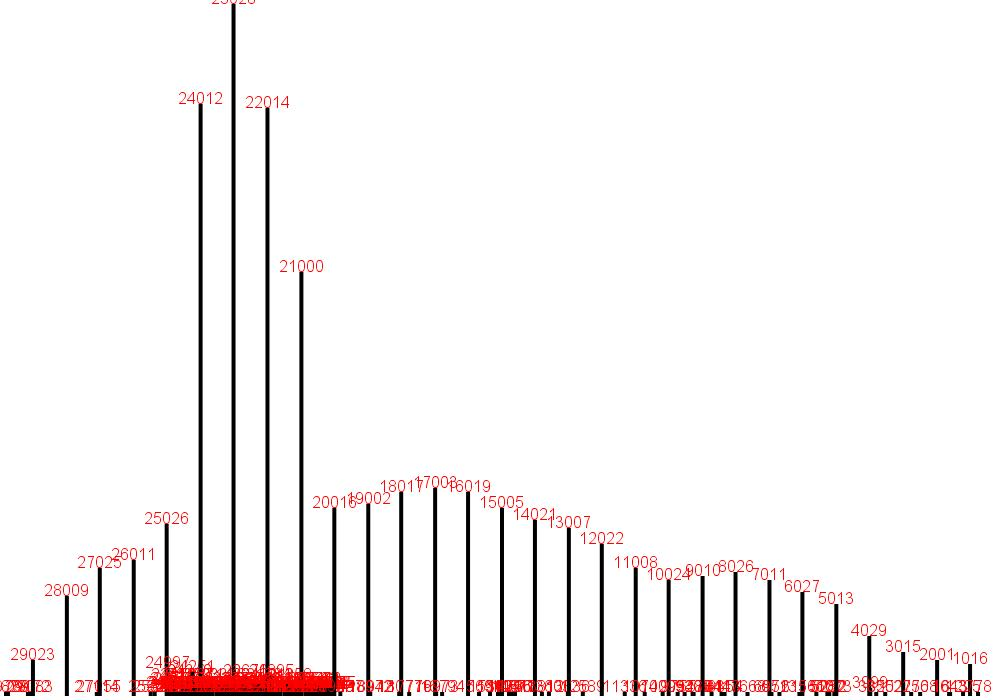
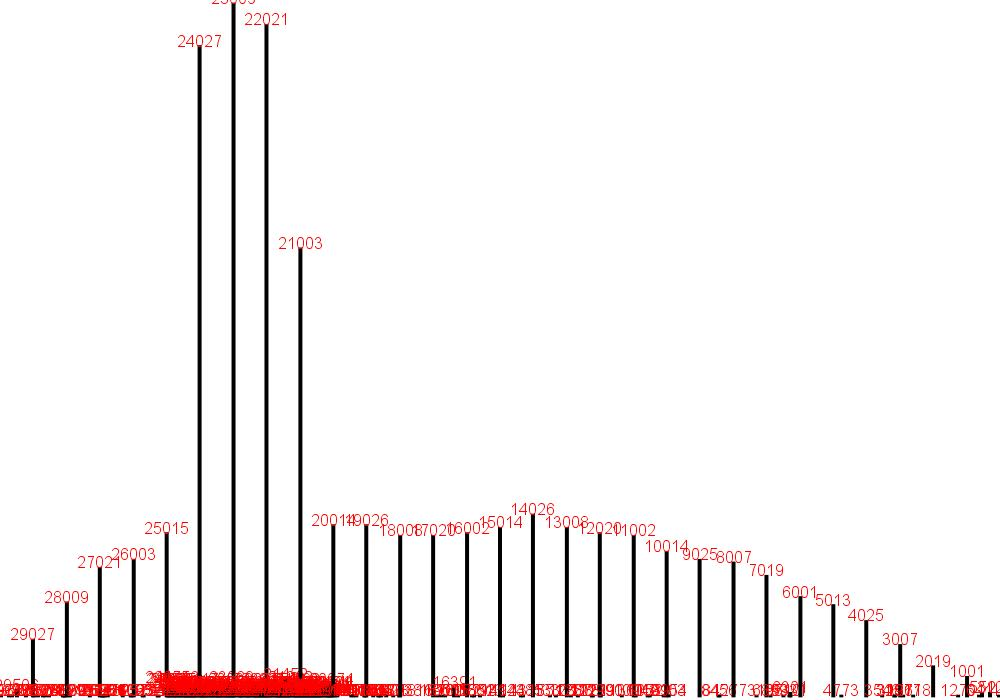
minor modifications

Changed region(s): [[0.0, 0.0, 1.0, 1.0], [0.031, 0.81, 0.093, 0.87], [0.124, 0.78, 0.155, 0.81]]

diff --git a/src/main/java/interval_tree/QueryGenerator.java b/src/main/java/interval_tree/QueryGenerator.java
@@ -10,7 +10,7 @@ public class QueryGenerator {
 
     final static String COLUMNS[] = {"A", "B", "C"};
 //    final static long RANGE[] = {0, 100000000L};
-    final static int NR_OF_QUERIES = 3000;
+    final static int NR_OF_QUERIES = 5000;
 
     private static int nrOfQueries = 0;
 
@@ -22,14 +22,14 @@ public class QueryGenerator {
 
         Random rand = new Random();
 
-        final int maxDuplicates = 100;
-        final int maxUpperBound = 30000;
+        final int maxDuplicates = 300;
+        final int maxUpperBound = 300000;
 
         final int firstLowerBound = 20000;
-        final int firstUpperBound = 25000;
+        final int firstUpperBound = 75000;
 
-        final int secondLowerBound = -25000;
-        final int secondUpperBound = -20000;
+        final int secondLowerBound = 100000;
+        final int secondUpperBound = 120000;
 
         StringBuilder tempStmt = new StringBuilder();
         for(int k = 0; k < NR_OF_QUERIES; k++) {
@@ -41,11 +41,11 @@ public class QueryGenerator {
                 int end;
 
                 int random = rand.nextInt(11);
-                if (random <= 5) { //This is 20% more
+                if (random <= 8) { //This is 20% more
                     start = rand.nextInt((firstUpperBound - firstLowerBound) + 1) + firstLowerBound;
                     end = rand.nextInt((firstUpperBound - start) + 1) + start;
                 }
-                else if(random <= 8){
+                else if(random <= 9){
                     start = rand.nextInt((secondUpperBound - secondLowerBound) + 1) + secondLowerBound;
                     end = rand.nextInt((secondUpperBound - start) + 1) + start;
                 }
@@ -63,10 +63,10 @@ public class QueryGenerator {
                 int start;
 
                 int random = rand.nextInt(11);
-                if (random <= 5) { //This is 20% more
+                if (random <= 8) { //This is 20% more
                     start = rand.nextInt((firstUpperBound - firstLowerBound) + 1) + firstLowerBound;
                 }
-                else if(random <= 8){
+                else if(random <= 9){
                     start = rand.nextInt((secondUpperBound - secondLowerBound) + 1) + secondLowerBound;
                 }
                 else {
@@ -84,6 +84,8 @@ public class QueryGenerator {
                 nrOfQueries++;
             }
         }
+
+        System.out.println("NrOfQueries: " + nrOfQueries);
 
         return stmts.toString();
     }

diff --git a/src/main/java/interval_tree/App.java b/src/main/java/interval_tree/App.java
@@ -53,6 +53,15 @@ public class App
 
 
         Map<String, MyIntervalTree> intervalTrees = new HashMap<String, MyIntervalTree>();
+        long generatorStartTime = 0;
+        long parseStartTime;
+        long kernelPrepStartTime;
+        long kernelStartTime;
+
+        long generatorEstimatedTime = 0;
+        long parseEstimatedTime = 0;
+        long kernelPrepEstimatedTime = 0;
+        long kernelEstimatedTime = 0;
 
         // ToDo: Read all column names before-hand
         intervalTrees.put("A", new MyIntervalTree());
@@ -64,8 +73,11 @@ public class App
 
         Select select = null;
         try {
+            generatorStartTime = System.nanoTime();
             Statements stats = CCJSqlParserUtil.parseStatements(QueryGenerator.generateBatchOfQueries());
+            generatorEstimatedTime = System.nanoTime() - generatorStartTime;
 
+            parseStartTime = System.nanoTime();
             for(Statement statement : stats.getStatements()){
                 select = (Select) statement;
                 PlainSelect ps = (PlainSelect) select.getSelectBody();
@@ -75,20 +87,31 @@ public class App
                 exp.accept(visitor);
                 System.out.println();
             }
+            parseEstimatedTime = System.nanoTime() - parseStartTime;
         } catch (JSQLParserException e1) {
             e1.printStackTrace();
         }
 
+        kernelPrepStartTime = System.nanoTime();
         for (Map.Entry<String, MyIntervalTree> entry : intervalTrees.entrySet())
         {
             entry.getValue().iterate(e);
         }
+        kernelPrepEstimatedTime = System.nanoTime() - kernelPrepStartTime;
 
         //e.addValue(-50000000, 99);
-        double[][] Intervals =  e.predictIntervals(.5);
+
+        kernelStartTime = System.nanoTime();
+        double[][] Intervals =  e.predictIntervals(.75);
+        kernelEstimatedTime = System.nanoTime() - kernelStartTime;
 
         for (int k = 0; k < Intervals.length; k++) {
             System.out.println("Left: " + (Intervals[k][0]) + "\t Right: " + (Intervals[k][1]));
         }
+
+        System.out.println("generatorStartTime: " + generatorEstimatedTime/ 1000000000.0);
+        System.out.println("parseStartTime: " + parseEstimatedTime/ 1000000000.0);
+        System.out.println("kernelPrepStartTime: " + kernelPrepEstimatedTime/ 1000000000.0);
+        System.out.println("kernelStartTime: " + kernelEstimatedTime/ 1000000000.0);
     }
 }

diff --git a/src/main/java/interval_tree/MyIntervalTree.java b/src/main/java/interval_tree/MyIntervalTree.java
@@ -8,6 +8,9 @@ import java.util.stream.IntStream;
 // ToDO: Implement Red-Black tree self-balancing
 public class MyIntervalTree {
 
+
+
+
     public class TreeNode{
         TreeNode left, right;
         NodeData data;
@@ -76,6 +79,8 @@ public class MyIntervalTree {
     }
 
     public static class Interval extends NodeData {
+        private static final int BinRange = 500;
+
         public int start;
         public int end;
 
@@ -98,14 +103,15 @@ public class MyIntervalTree {
 
         @Override
         void insertToKernel(UnivariateKernelEstimator e) {
-            IntStream.range(start, end).filter(x->x%1000==0)
+            IntStream.range(start, end).filter(x->x%BinRange==0)
                     .mapToDouble(x->x)
-                    .forEach(x->e.addValue(x, weight/100));
+                    .forEach(x->e.addValue(x, weight/1));
+//                    .forEach(x->e.addValue(x, weight/100));
         }
 
         @Override
         void insertToHistogram(Histogram e, int oldMin, int oldMax) {
-            IntStream.range(start, end).filter(x->x%1000==0)
+            IntStream.range(start, end).filter(x->x%BinRange==0)
                     .forEach(x->e.addDataPoint(scale(x, oldMin, oldMax)));
         }
 
@@ -161,7 +167,7 @@ public class MyIntervalTree {
         iterate(this.root, e);
 
         // display using standard draw
-        StdDraw.setCanvasSize(1000, 700);
+        StdDraw.setCanvasSize(1500, 700);
         histogram.draw(minVal, maxVal);
     }
 
@@ -180,7 +186,7 @@ public class MyIntervalTree {
         iterate(root.right, e);
     }
 
-    private final static int MaxNew = 1000;
+    private final static int MaxNew = 100;
     private final static int MinNew = 0;
 
     public static int scale(double v, int oldMin, int oldMax){

diff --git a/src/main/java/interval_tree/GUI/StdStats.java b/src/main/java/interval_tree/GUI/StdStats.java
@@ -501,7 +501,7 @@ public final class StdStats {
         StdDraw.setXscale(-1, n);
         for (int i = 0; i < n; i++) {
             StdDraw.setPenColor(Color.black);
-            StdDraw.filledRectangle(i, a[i]/2, 2, (a[i]/2));
+            StdDraw.filledRectangle(i, a[i]/2, .2, (a[i]/2));
             if(a[i] > 0) {
                 StdDraw.setPenColor(Color.red);
                 StdDraw.text(i, a[i] + 1, Integer.toString(rescale(i, minVal, maxVal)));
